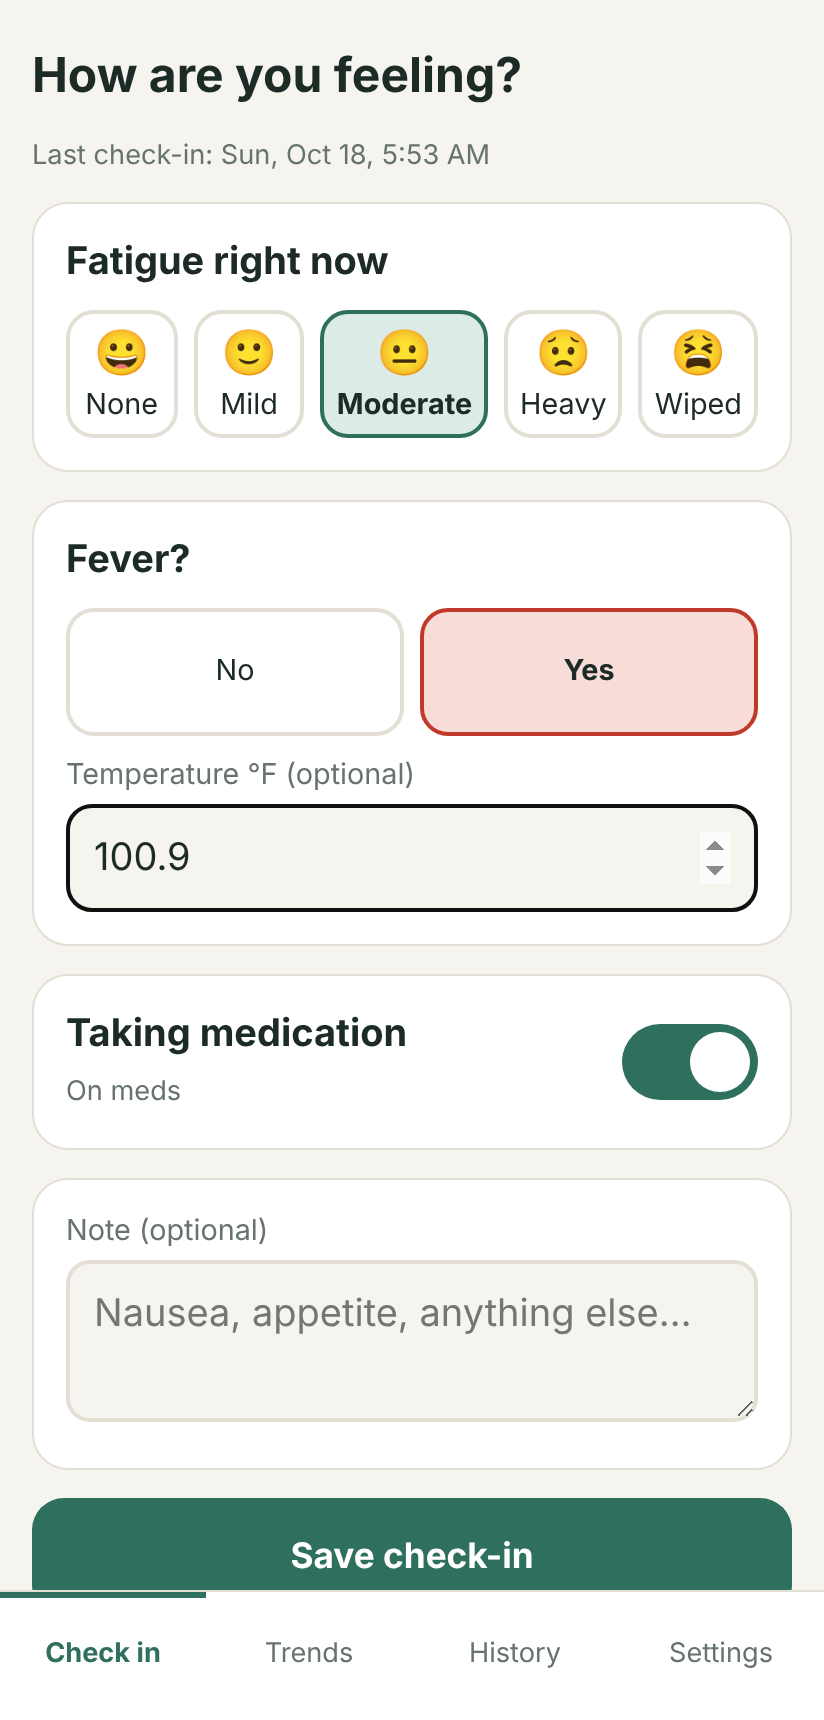
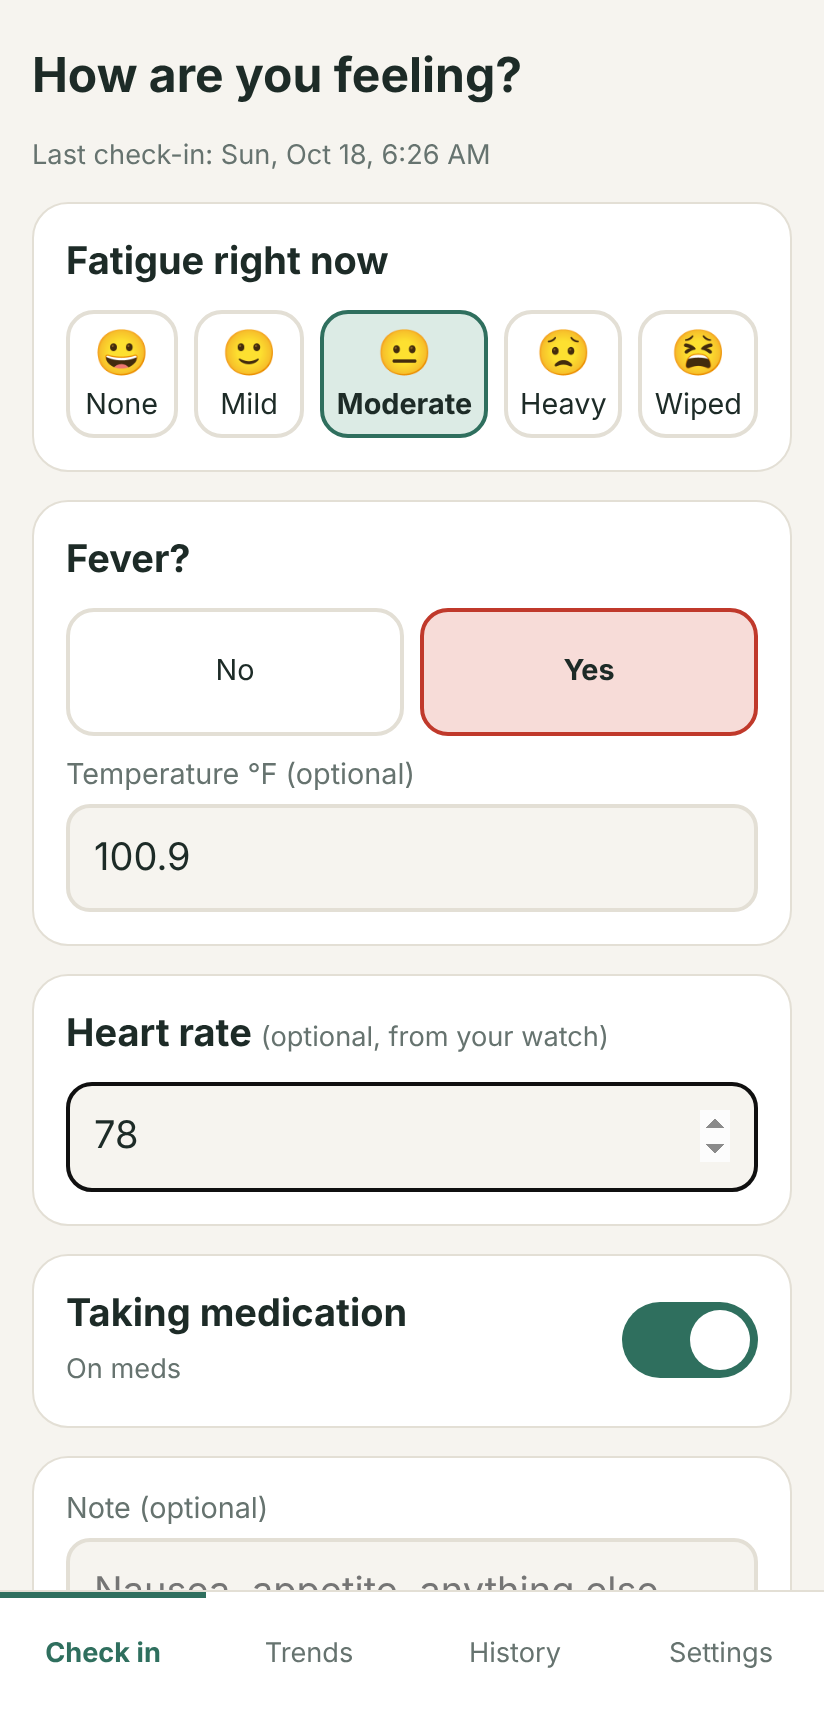
Add optional heart rate to check-ins, trends, history and exports (#3)
Claude-Session: https://claude.ai/code/session_01J3GDPPP9LmrbnWauLpmtBQ

diff --git a/app.js b/app.js
@@ -11,7 +11,7 @@ async function load() {
   state.entries = await DB.allEntries();
   for (const k in DEFAULTS) state.settings[k] = await DB.getSetting(k, DEFAULTS[k]);
 }
-const newDraft = () => ({ fatigue: null, fever: null, temp: '', onMeds: state.entries.length ? state.entries.at(-1).onMeds : true, note: '' });
+const newDraft = () => ({ fatigue: null, fever: null, temp: '', hr: '', onMeds: state.entries.length ? state.entries.at(-1).onMeds : true, note: '' });
 
 // ---------- views ----------
 function viewCheckin() {
@@ -24,22 +24,24 @@ function viewCheckin() {
   <div class="card"><p class="q">Fever?</p>
     <div class="seg"><button data-fev="0" class="${d.fever === false ? 'on' : ''}">No</button><button data-fev="1" class="bad ${d.fever ? 'on' : ''}">Yes</button></div>
     ${d.fever ? `<label class="f" for="temp">Temperature °F (optional)</label><input id="temp" type="number" inputmode="decimal" step="0.1" min="90" max="110" value="${esc(d.temp)}">` : ''}</div>
+  <div class="card"><label class="q" for="hr" style="display:block">Heart rate <span class="hint">(optional, from your watch)</span></label><input id="hr" type="number" inputmode="numeric" min="30" max="220" placeholder="bpm" value="${esc(d.hr)}"></div>
   <div class="card"><button class="toggle" id="meds" role="switch" aria-checked="${d.onMeds}"><span><span class="q" style="margin:0">Taking medication</span><br><span class="hint">${d.onMeds ? 'On meds' : 'Off meds (on a break)'}</span></span><span class="sw"></span></button></div>
   <div class="card"><label class="f" for="note" style="margin-top:0">Note (optional)</label><textarea id="note" rows="2" placeholder="Nausea, appetite, anything else…">${esc(d.note)}</textarea></div>
   <button class="primary" id="save" ${d.fatigue && d.fever !== null ? '' : 'disabled style="opacity:.45"'}>Save check-in</button>`;
   app.querySelectorAll('[data-fat]').forEach(b => b.onclick = () => { d.fatigue = +b.dataset.fat; viewCheckin(); });
   app.querySelectorAll('[data-fev]').forEach(b => b.onclick = () => { d.fever = b.dataset.fev === '1'; if (!d.fever) d.temp = ''; viewCheckin(); });
   $('#meds').onclick = () => { d.onMeds = !d.onMeds; viewCheckin(); };
+  $('#hr').oninput = e => d.hr = e.target.value;
   $('#note').oninput = e => d.note = e.target.value;
   if ($('#temp')) $('#temp').oninput = e => d.temp = e.target.value;
   $('#save').onclick = async () => {
-    await DB.addEntry({ ts: Date.now(), fatigue: d.fatigue, fever: d.fever, temp: d.temp ? +d.temp : null, onMeds: d.onMeds, note: d.note.trim() });
+    await DB.addEntry({ ts: Date.now(), fatigue: d.fatigue, fever: d.fever, temp: d.temp ? +d.temp : null, hr: d.hr ? Math.round(+d.hr) : null, onMeds: d.onMeds, note: d.note.trim() });
     state.draft = null; await load(); toast('Saved ✓'); if (GSync.canAuto()) syncSheets(false); scheduleReminders(); show('trends');
   };
 }
 
 function viewTrends() {
-  const days = byDay(state.entries), streak = feverStreak(days), med = medStatus(state.entries);
+  const days = byDay(state.entries), hrDays = days.filter(d => d.hr != null), streak = feverStreak(days), med = medStatus(state.entries);
   const recent = days.slice(-7), avg = recent.length ? (recent.reduce((a, d) => a + d.fatigue, 0) / recent.length).toFixed(1) : '–';
   app.innerHTML = `<h1>Trends</h1>
   <div class="tiles">
@@ -47,16 +49,18 @@ function viewTrends() {
     <div class="tile"><div class="n">${med ? (med.onMeds ? 'On' : 'Off') + ' · ' + med.days + 'd' : '–'}</div><div class="l">Medication status</div></div>
     <div class="tile"><div class="n">${avg}</div><div class="l">Avg fatigue, last 7 days (1–5)</div></div>
     <div class="tile"><div class="n">${recent.filter(d => d.fever).length}/${recent.length}</div><div class="l">Fever days, last 7</div></div>
+    ${hrDays.length ? `<div class="tile"><div class="n">${Math.round(hrDays.slice(-7).reduce((a, d) => a + d.hr, 0) / hrDays.slice(-7).length)} bpm</div><div class="l">Avg heart rate, recent days</div></div>` : ''}
   </div>
   <div class="range">${[7, 14, 30, 90].map(r => `<button data-r="${r}" class="${state.range === r ? 'on' : ''}">${r}d</button>`).join('')}</div>
   <div class="card">${state.entries.length ? trendChart(state.entries, days, state.range) : '<p class="hint">No check-ins yet. Do your first one!</p>'}
-  <div class="legend"><span><i style="background:var(--green)"></i>Fatigue (daily avg)</span><span><i style="background:var(--med)"></i>On meds</span><span><i style="background:var(--red)"></i>Fever day</span></div></div>`;
+  <div class="legend"><span><i style="background:var(--green)"></i>Fatigue (daily avg)</span><span><i style="background:var(--med)"></i>On meds</span><span><i style="background:var(--red)"></i>Fever day</span></div></div>
+  ${hrDays.length ? `<div class="card"><p class="q">Heart rate <span class="hint">(daily avg, bpm)</span></p>${hrChart(hrDays, state.range)}</div>` : ''}`;
   app.querySelectorAll('[data-r]').forEach(b => b.onclick = () => { state.range = +b.dataset.r; viewTrends(); });
 }
 
 function viewHistory() {
   app.innerHTML = `<h1>History</h1><div class="card">${[...state.entries].reverse().map(e => `<div class="row"><div><b>${fmt(e.ts)}</b><br>
-    <span class="pill">Fatigue ${e.fatigue}/5</span> ${e.fever ? `<span class="pill f">Fever${e.temp ? ' ' + e.temp + '°' : ''}</span>` : ''} <span class="pill m">${e.onMeds ? 'On meds' : 'Off meds'}</span>
+    <span class="pill">Fatigue ${e.fatigue}/5</span> ${e.fever ? `<span class="pill f">Fever${e.temp ? ' ' + e.temp + '°' : ''}</span>` : ''} ${e.hr ? `<span class="pill">${e.hr} bpm</span>` : ''} <span class="pill m">${e.onMeds ? 'On meds' : 'Off meds'}</span>
     ${e.note ? `<br><span class="hint">${esc(e.note)}</span>` : ''}</div><button class="ghost danger" data-del="${e.id}" aria-label="Delete">✕</button></div>`).join('') || '<p class="hint">Nothing yet.</p>'}</div>`;
   app.querySelectorAll('[data-del]').forEach(b => b.onclick = async () => { if (confirm('Delete this check-in?')) { await DB.deleteEntry(+b.dataset.del); await load(); viewHistory(); } });
 }
@@ -88,8 +92,12 @@ function viewSettings() {
   $('#csv').onclick = () => { const a = document.createElement('a'); a.href = URL.createObjectURL(new Blob([toCSV(state.entries)], { type: 'text/csv' })); a.download = 'health-checkins.csv'; a.click(); };
   $('#imp').onclick = () => $('#file').click();
   $('#file').onchange = async e => {
-    const lines = (await e.target.files[0].text()).trim().split('\n').slice(1); let n = 0;
-    for (const l of lines) { const c = l.split(','); const ts = Date.parse(c[0]); if (!ts || !+c[1]) continue; await DB.addEntry({ ts, fatigue: +c[1], fever: c[2] === '1', temp: c[3] ? +c[3] : null, onMeds: c[4] === '1', note: (c.slice(5).join(',') || '').replace(/^"|"$/g, '').replace(/""/g, '"') }); n++; }
+    const [head, ...lines] = (await e.target.files[0].text()).trim().split('\n'); let n = 0;
+    const hasHr = head.includes('hr_bpm'), noteAt = hasHr ? 6 : 5;
+    for (const l of lines) {
+      const c = l.split(','), ts = Date.parse(c[0]); if (!ts || !+c[1]) continue;
+      await DB.addEntry({ ts, fatigue: +c[1], fever: c[2] === '1', temp: c[3] ? +c[3] : null, onMeds: c[4] === '1', hr: hasHr && c[5] ? +c[5] : null, note: (c.slice(noteAt).join(',') || '').replace(/^"|"$/g, '').replace(/""/g, '"') }); n++;
+    }
     await load(); toast(`Imported ${n}`);
   };
 }

diff --git a/stats.js b/stats.js
@@ -1,4 +1,4 @@
-// Pure helpers over entries: {ts, fatigue 1-5, fever bool, temp?, onMeds bool, note?}
+// Pure helpers over entries: {ts, fatigue 1-5, fever bool, temp?, hr?, onMeds bool, note?}
 const DAY = 864e5;
 const dayKey = ts => { const d = new Date(ts); return d.getFullYear() + '-' + String(d.getMonth() + 1).padStart(2, '0') + '-' + String(d.getDate()).padStart(2, '0'); };
 const startOfDay = ts => { const d = new Date(ts); d.setHours(0, 0, 0, 0); return d.getTime(); };
@@ -7,12 +7,13 @@ function byDay(entries) {
   const m = new Map();
   for (const e of entries) {
     const k = dayKey(e.ts);
-    if (!m.has(k)) m.set(k, { key: k, day: startOfDay(e.ts), n: 0, fatigueSum: 0, fever: false, maxTemp: null, onMeds: false });
+    if (!m.has(k)) m.set(k, { key: k, day: startOfDay(e.ts), n: 0, fatigueSum: 0, fever: false, maxTemp: null, hrSum: 0, hrN: 0, onMeds: false });
     const d = m.get(k);
     d.n++; d.fatigueSum += e.fatigue; d.fever ||= e.fever; d.onMeds = e.onMeds; // last entry of the day wins
+    if (e.hr != null) { d.hrSum += e.hr; d.hrN++; }
     if (e.temp != null) d.maxTemp = Math.max(d.maxTemp ?? 0, e.temp);
   }
-  return [...m.values()].map(d => ({ ...d, fatigue: d.fatigueSum / d.n })).sort((a, b) => a.day - b.day);
+  return [...m.values()].map(d => ({ ...d, fatigue: d.fatigueSum / d.n, hr: d.hrN ? d.hrSum / d.hrN : null })).sort((a, b) => a.day - b.day);
 }
 
 // Consecutive calendar days (ending today or yesterday) that had a fever.
@@ -48,7 +49,7 @@ function medSpans(entries, from, to) {
 
 function toCSV(entries) {
   const q = s => '"' + String(s ?? '').replace(/"/g, '""') + '"';
-  return 'timestamp,fatigue_1to5,fever,temp_f,on_meds,note\n' + entries.map(e =>
-    [new Date(e.ts).toISOString(), e.fatigue, e.fever ? 1 : 0, e.temp ?? '', e.onMeds ? 1 : 0, q(e.note)].join(',')).join('\n');
+  return 'timestamp,fatigue_1to5,fever,temp_f,on_meds,hr_bpm,note\n' + entries.map(e =>
+    [new Date(e.ts).toISOString(), e.fatigue, e.fever ? 1 : 0, e.temp ?? '', e.onMeds ? 1 : 0, e.hr ?? '', q(e.note)].join(',')).join('\n');
 }
 if (typeof module !== 'undefined') module.exports = { byDay, feverStreak, medStatus, medSpans, toCSV, dayKey, startOfDay, DAY };

diff --git a/charts.js b/charts.js
@@ -25,3 +25,21 @@ function trendChart(entries, days, rangeDays, now = Date.now()) {
   }
   return svgNS(W, H, s);
 }
+
+// Daily average heart rate with an auto-fit y axis.
+function hrChart(hrDays, rangeDays, now = Date.now()) {
+  const W = 360, H = 150, L = 34, R = 8, T = 10, B = 124;
+  const to = startOfDay(now) + DAY, from = to - rangeDays * DAY;
+  const pts = hrDays.filter(d => d.day >= from);
+  if (!pts.length) return '<p class="hint">No heart rates in this range.</p>';
+  const lo = Math.floor(Math.min(...pts.map(d => d.hr)) / 10) * 10 - 10, hi = Math.ceil(Math.max(...pts.map(d => d.hr)) / 10) * 10 + 10;
+  const x = ts => L + (ts - from) / (to - from) * (W - L - R), y = v => B - (v - lo) / (hi - lo) * (B - T);
+  let s = '';
+  for (const v of [lo, (lo + hi) / 2, hi]) s += `<line x1="${L}" x2="${W - R}" y1="${y(v)}" y2="${y(v)}" stroke="var(--line)"/><text x="${L - 6}" y="${y(v) + 4}" text-anchor="end">${Math.round(v)}</text>`;
+  const step = rangeDays <= 14 ? 1 : rangeDays <= 30 ? 7 : 14;
+  for (let t = from, i = 0; t < to; t += DAY, i++) if (i % step === 0) { const d = new Date(t + DAY / 2); s += `<text x="${x(t + DAY / 2)}" y="${H - 4}" text-anchor="middle">${d.getMonth() + 1}/${d.getDate()}</text>`; }
+  const xy = pts.map(d => [x(d.day + DAY / 2), y(d.hr)]);
+  if (xy.length > 1) s += `<polyline fill="none" stroke="var(--red)" stroke-width="2.5" stroke-linejoin="round" points="${xy.map(p => p[0].toFixed(1) + ',' + p[1].toFixed(1)).join(' ')}"/>`;
+  for (const [px, py] of xy) s += `<circle cx="${px}" cy="${py}" r="${rangeDays > 30 ? 2.5 : 4}" fill="var(--red)"/>`;
+  return svgNS(W, H, s);
+}

diff --git a/test/stats.test.js b/test/stats.test.js
@@ -23,6 +23,16 @@ test('med spans merge and clip', () => {
 
 test('sheet rows are formatted for Sheets', () => {
   const G = require('../gsync.js');
-  const r = G.rows([{ ts: new Date('2026-10-18T09:05:00').getTime(), fatigue: 4, fever: true, temp: 101.2, onMeds: false, note: 'rough' }]);
-  assert.deepEqual(r[0], ['2026-10-18', '09:05', 4, 'Yes', 101.2, 'Off', 'rough']);
+  const r = G.rows([{ ts: new Date('2026-10-18T09:05:00').getTime(), fatigue: 4, fever: true, temp: 101.2, onMeds: false, hr: 72, note: 'rough' }]);
+  assert.deepEqual(r[0], ['2026-10-18', '09:05', 4, 'Yes', 101.2, 'Off', 72, 'rough']);
+});
+
+test('daily heart rate averages only entries that have one', () => {
+  const d = byDay([e(0, { hr: 70 }), e(0, { hr: 90 }), e(0)])[0];
+  assert.equal(d.hr, 80);
+  assert.equal(byDay([e(0)])[0].hr, null);
+});
+test('csv has hr column', () => {
+  const { toCSV } = require('../stats.js');
+  assert.match(toCSV([e(0, { hr: 66 })]), /on_meds,hr_bpm,note\n.*,1,66,""$/);
 });

diff --git a/gsync.js b/gsync.js
@@ -2,13 +2,13 @@
 // Uses only the drive.file scope: the app can touch just the sheet it created.
 const GSync = (() => {
   const SCOPE = 'https://www.googleapis.com/auth/drive.file';
-  const HEADER = ['Date', 'Time', 'Fatigue (1-5)', 'Fever', 'Temp (F)', 'On meds', 'Note'];
+  const HEADER = ['Date', 'Time', 'Fatigue (1-5)', 'Fever', 'Temp (F)', 'On meds', 'Heart rate (bpm)', 'Note'];
   let token = null, expires = 0, client = null;
 
   const rows = entries => entries.map(e => {
     const d = new Date(e.ts), p = n => String(n).padStart(2, '0');
     return [`${d.getFullYear()}-${p(d.getMonth() + 1)}-${p(d.getDate())}`, `${p(d.getHours())}:${p(d.getMinutes())}`,
-      e.fatigue, e.fever ? 'Yes' : 'No', e.temp ?? '', e.onMeds ? 'On' : 'Off', e.note || ''];
+      e.fatigue, e.fever ? 'Yes' : 'No', e.temp ?? '', e.onMeds ? 'On' : 'Off', e.hr ?? '', e.note || ''];
   });
 
   const loadGsi = () => new Promise((res, rej) => {

diff --git a/README.md b/README.md
@@ -3,7 +3,7 @@
 A single-user, phone-first app for logging how someone is feeling through the day and seeing trends over time. Tracks fatigue, fevers and medication on/off cycles.
 
 ## What it does
-- **Check in** (10 seconds): fatigue 1–5, fever yes/no (+ optional temperature), medication on/off toggle, optional note.
+- **Check in** (10 seconds): fatigue 1–5, fever yes/no (+ optional temperature), optional heart rate typed in from the watch, medication on/off toggle, optional note.
 - **Trends**: fatigue line over shaded medication-on periods, a fever-day strip, current fever streak, days on/off meds. 7/14/30/90-day views.
 - **History** with delete, **CSV export/import**.
 - **Random reminders**: N check-ins/day at random times inside a chosen window.
